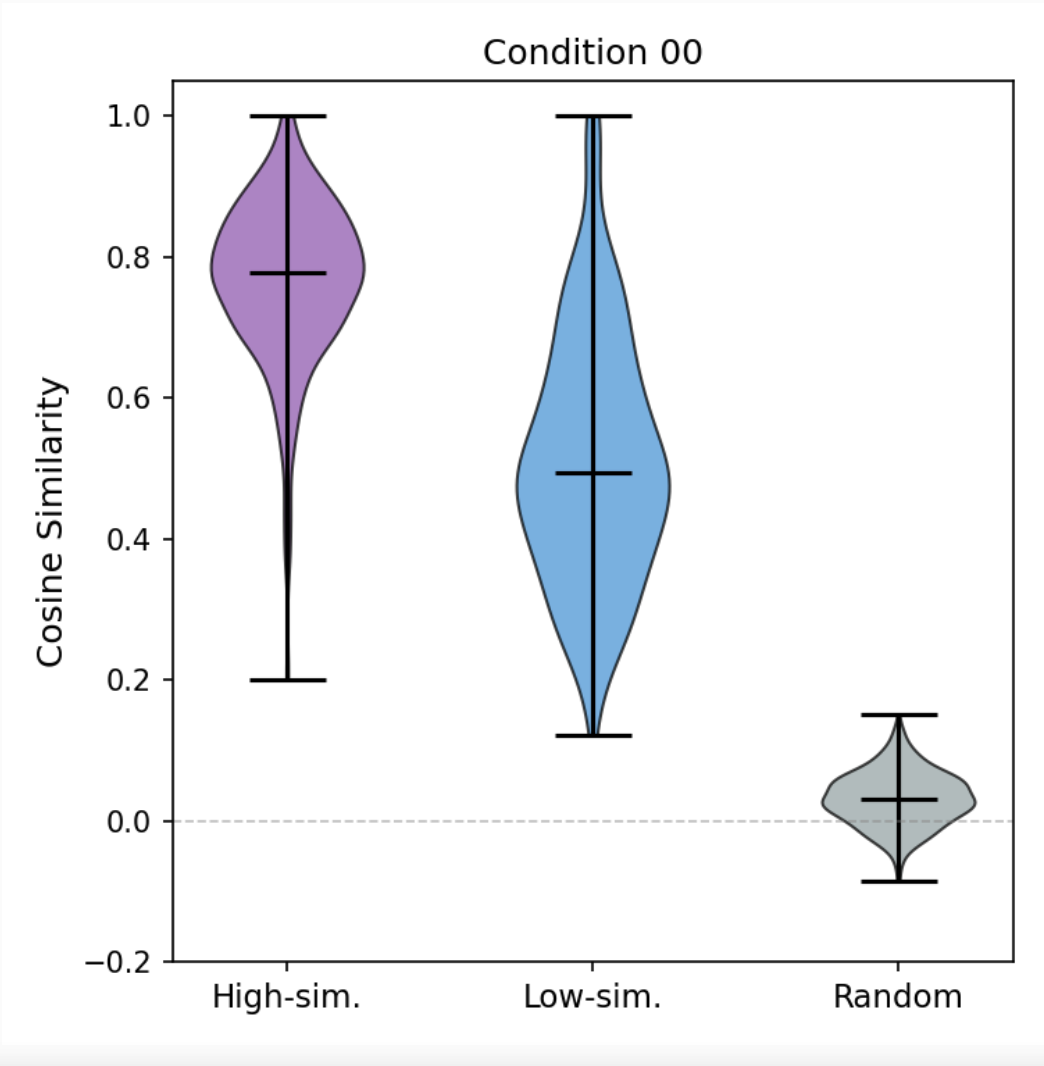
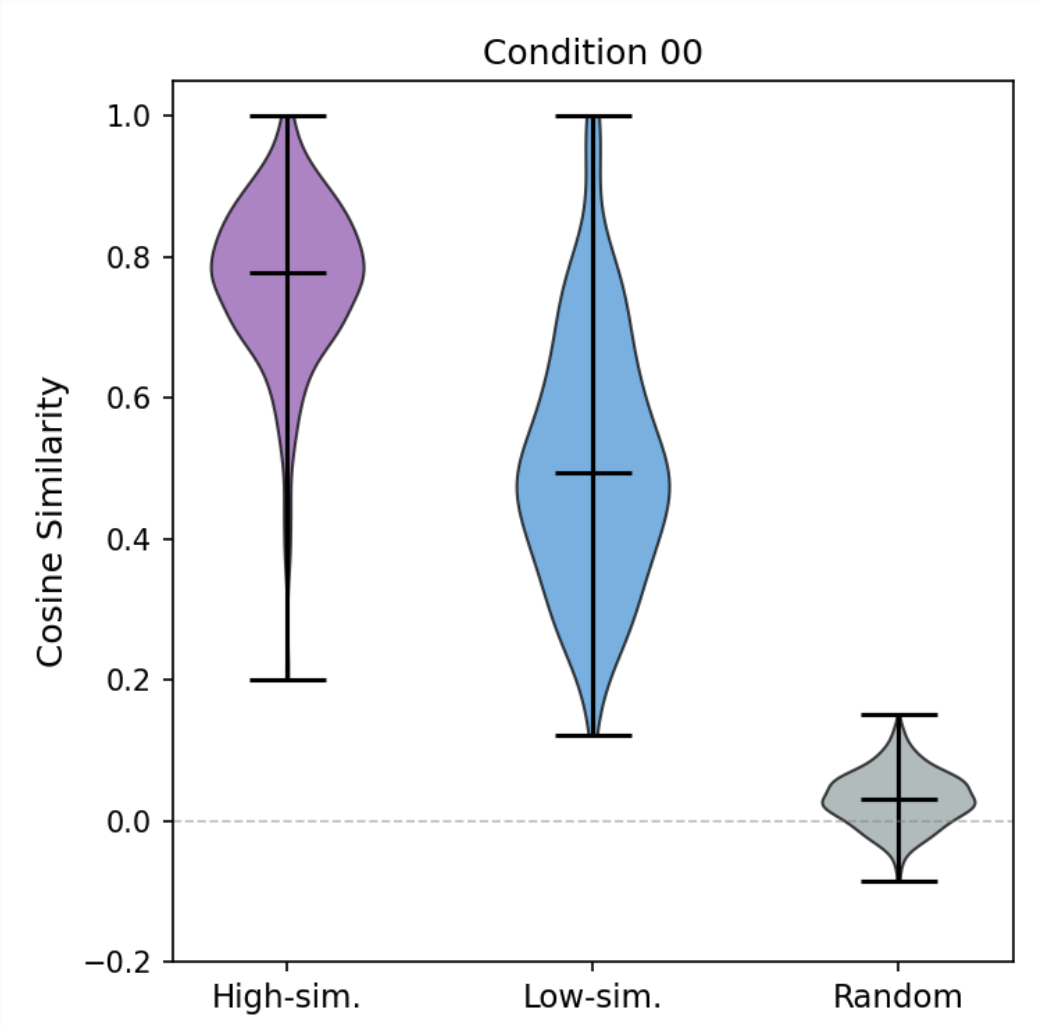
slide content update

Changed region(s): [[0.0925, 0.0312, 0.9865, 0.9981], [0.0308, 0.3431, 0.0617, 0.655]]

diff --git a/index.html b/index.html
@@ -385,7 +385,7 @@
             2026 / 06 / 10
           </div>
         </div>
-        <div class="footer"><span>Title</span><span>01 / 20</span></div>
+        <div class="footer"><span>Title</span><span>01 / 23</span></div>
       </section>
 
       <!-- Slide 2: The Original Paper -->
@@ -410,7 +410,7 @@
           </ul>
         </div>
         <div class="footer">
-          <span>Kallini et al., 2025</span><span>02 / 20</span>
+          <span>Kallini et al., 2025</span><span>02 / 23</span>
         </div>
       </section>
 
@@ -443,7 +443,7 @@
             alignment?
           </p>
         </div>
-        <div class="footer"><span>JA–ZH Testbed</span><span>03 / 20</span></div>
+        <div class="footer"><span>JA–ZH Testbed</span><span>03 / 23</span></div>
       </section>
 
       <!-- Slide 4: Why Kanji Sharing? -->
@@ -471,7 +471,7 @@
           </ul>
         </div>
         <div class="footer">
-          <span>Bilingual LM Research</span><span>04 / 20</span>
+          <span>Bilingual LM Research</span><span>04 / 23</span>
         </div>
       </section>
 
@@ -519,7 +519,7 @@
           </table>
         </div>
         <div class="footer">
-          <span>Overlap Breakdown</span><span>05 / 20</span>
+          <span>Overlap Breakdown</span><span>05 / 23</span>
         </div>
       </section>
 
@@ -538,7 +538,7 @@
           </ul>
         </div>
         <div class="footer">
-          <span>Vocabulary Density</span><span>06 / 20</span>
+          <span>Vocabulary Density</span><span>06 / 23</span>
         </div>
       </section>
 
@@ -580,7 +580,7 @@
           </table>
         </div>
         <div class="footer">
-          <span>Semantic Ambiguity</span><span>07 / 20</span>
+          <span>Semantic Ambiguity</span><span>07 / 23</span>
         </div>
       </section>
 
@@ -607,7 +607,7 @@
           </div>
         </div>
         <div class="footer">
-          <span>Research Focus</span><span>08 / 20</span>
+          <span>Research Focus</span><span>08 / 23</span>
         </div>
       </section>
 
@@ -632,7 +632,7 @@
           </ul>
         </div>
         <div class="footer">
-          <span>Transfer Hypothesis</span><span>09 / 20</span>
+          <span>Transfer Hypothesis</span><span>09 / 23</span>
         </div>
       </section>
 
@@ -678,7 +678,7 @@
           </p>
         </div>
         <div class="footer">
-          <span>Embedding Analysis</span><span>10 / 20</span>
+          <span>Embedding Analysis</span><span>10 / 23</span>
         </div>
       </section>
 
@@ -702,7 +702,7 @@
             </li>
           </ul>
         </div>
-        <div class="footer"><span>XLM-R Sweep</span><span>11 / 20</span></div>
+        <div class="footer"><span>XLM-R Sweep</span><span>11 / 23</span></div>
       </section>
 
       <!-- Slide 12: Experimental Design -->
@@ -751,7 +751,7 @@
           </p>
         </div>
         <div class="footer">
-          <span>Four Conditions</span><span>12 / 20</span>
+          <span>Four Conditions</span><span>12 / 23</span>
         </div>
       </section>
 
@@ -775,7 +775,7 @@
             </li>
           </ul>
         </div>
-        <div class="footer"><span>CCMatrix</span><span>13 / 20</span></div>
+        <div class="footer"><span>CCMatrix</span><span>13 / 23</span></div>
       </section>
 
       <!-- Slide 14: Training Setup -->
@@ -815,7 +815,7 @@
           </div>
         </div>
         <div class="footer">
-          <span>Comparison Config</span><span>14 / 20</span>
+          <span>Comparison Config</span><span>14 / 23</span>
         </div>
       </section>
 
@@ -837,7 +837,7 @@
           </ul>
         </div>
         <div class="footer">
-          <span>Llama GPT-2 Scale</span><span>15 / 20</span>
+          <span>Llama GPT-2 Scale</span><span>15 / 23</span>
         </div>
       </section>
 
@@ -865,7 +865,7 @@
           </ul>
         </div>
         <div class="footer">
-          <span>Embedding Method</span><span>16 / 20</span>
+          <span>Embedding Method</span><span>16 / 23</span>
         </div>
       </section>
 
@@ -898,7 +898,7 @@
           </div>
         </div>
         <div class="footer">
-          <span>Token Groups</span><span>17 / 20</span>
+          <span>Token Groups</span><span>17 / 23</span>
         </div>
       </section>
 
@@ -914,7 +914,7 @@
           />
         </div>
         <div class="footer">
-          <span>Condition 00 Plot</span><span>18 / 20</span>
+          <span>Condition 00 Plot</span><span>18 / 23</span>
         </div>
       </section>
 
@@ -944,11 +944,121 @@
           </ul>
         </div>
         <div class="footer">
-          <span>Condition 00</span><span>19 / 20</span>
+          <span>Condition 00</span><span>19 / 23</span>
         </div>
       </section>
 
-      <!-- Slide 20: Status & Next Steps -->
+      <!-- Slide 20: Condition 10 Violin Plot -->
+      <section class="slide figure-slide">
+        <h2>Analysis</h2>
+        <h3>Condition 10 Violin Plot</h3>
+        <div class="slide-content">
+          <div class="grid-2" style="width: 100%; align-items: center">
+            <div>
+              <div class="accent-box" style="margin: 0 0 1.5rem">
+                <strong>Condition 10</strong>
+                <code>Ohi</code> shared, <code>Olo</code> not shared
+              </div>
+              <ul>
+                <li>
+                  Sharing semantically similar kanji
+                </li>
+              </ul>
+            </div>
+            <img
+              class="slide-figure"
+              src="EA_cond10.png"
+              alt="Condition 10 embedding similarity violin plot"
+            />
+          </div>
+        </div>
+        <div class="footer">
+          <span>Condition 10 Plot</span><span>20 / 23</span>
+        </div>
+      </section>
+
+      <!-- Slide 21: Condition 00 vs 10 Comparison -->
+      <section class="slide figure-slide">
+        <h2>Analysis</h2>
+        <h3>Condition 00 vs 10</h3>
+        <div class="slide-content">
+          <div class="grid-2" style="width: 100%; align-items: center; gap: 2rem">
+            <div style="text-align: center">
+              <img
+                class="slide-figure"
+                src="EA_cond00.png"
+                alt="Condition 00 embedding similarity violin plot"
+              />
+            </div>
+            <div style="text-align: center">
+              <img
+                class="slide-figure"
+                src="EA_cond10.png"
+                alt="Condition 10 embedding similarity violin plot"
+              />
+            </div>
+          </div>
+        </div>
+        <div class="footer">
+          <span>00 vs 10</span><span>21 / 23</span>
+        </div>
+      </section>
+
+      <!-- Slide 22: Condition 10 Interpretation -->
+      <section class="slide">
+        <h2>Analysis</h2>
+        <h3>Condition 10 Interpretation</h3>
+        <div class="slide-content">
+          <table style="font-size: 1rem; margin: 0.5rem 0 1.25rem">
+            <thead>
+              <tr>
+                <th>Token group</th>
+                <th>Condition 00</th>
+                <th>Condition 10</th>
+                <th>Change</th>
+              </tr>
+            </thead>
+            <tbody>
+              <tr>
+                <td><strong>Ohi</strong></td>
+                <td>~0.78</td>
+                <td>~0.75</td>
+                <td>≈ no change</td>
+              </tr>
+              <tr>
+                <td><strong>Olo</strong></td>
+                <td>~0.49</td>
+                <td>~0.05</td>
+                <td>↓ dramatically</td>
+              </tr>
+              <tr>
+                <td><strong>Random</strong></td>
+                <td>~0.03</td>
+                <td>~0.05</td>
+                <td>≈ no change</td>
+              </tr>
+            </tbody>
+          </table>
+          <ul>
+            <li>
+              <strong>Olo</strong> collapses toward the random baseline because
+              it is not shared in Condition 10
+            </li>
+            <li>
+              <strong>Ohi</strong> barely changes, suggesting shared context
+              already aligns semantically similar tokens
+            </li>
+            <li>
+              Token ID sharing matters most for semantically dissimilar tokens
+            </li>
+          </ul>
+        </div>
+        <div class="footer">
+          <span>Condition 10</span><span>22 / 23</span>
+        </div>
+      </section>
+
+      <!-- Slide 23: Status & Next Steps -->
       <section class="slide">
         <h2>Conclusion</h2>
         <h3>Status & Next Steps</h3>
@@ -968,14 +1078,14 @@
           </ul>
         </div>
         <div class="footer">
-          <span>Progress Report</span><span>20 / 20</span>
+          <span>Progress Report</span><span>23 / 23</span>
         </div>
       </section>
     </div>
 
     <div id="nav">
       <button class="nav-btn" id="prev">PREV</button>
-      <div id="counter">1 / 20</div>
+      <div id="counter">1 / 23</div>
       <button class="nav-btn" id="next">NEXT</button>
     </div>
 
@@ -1042,7 +1152,7 @@
       const exitBtn = document.getElementById("exit-edit");
       const resetBtn = document.getElementById("reset-content");
       const saveStatus = document.getElementById("save-status");
-      const STORAGE_KEY = "ppt_content_v5";
+      const STORAGE_KEY = "ppt_content_v7";
 
       const editableSelectors =
         "h1, h2, h3, p, li, td, .subtitle, .meta, .accent-box";

diff --git a/tmp.md b/tmp.md
@@ -1,34 +1,18 @@
-Slide 14: Embedding Analysis — Method
+Slide 17: Embedding Analysis — Condition 10 Results
+(violin plot: Condition 10 — figure inserted here)
 
-Goal: test whether kanji token sharing causes the model to learn more or less aligned representations for JA and ZH
-From a middle layer (l = 6) of each trained model:
-
-For each token in Ohi_500 / Olo_500 / Random_500, sample up to 100 sentences per language from the training data
-Extract contextual embeddings → mean-pool → one static embedding per token per language: e_ja, e_zh
-Compute cosine similarity between e_ja and e_zh
+Condition 10: Ohi shared, Olo not shared
+Analogous to High-similarity Overlap in the original paper
 
 
-Three token groups compared:
+Slide 18: Embedding Analysis — Condition 10 Interpretation
+Comparing Condition 00 → Condition 10:
+Token groupCondition 00Condition 10ChangeOhi~0.78~0.75≈ no changeOlo~0.49~0.05↓ dramaticallyRandom~0.03~0.05≈ no change
 
-Ohi_500 (purple) — high-similarity kanji; should be semantically aligned across JA/ZH
-Olo_500 (blue) — low-similarity kanji; should be semantically distinct
-Random_500 (gray) — non-overlapping JA-only / ZH-only single-char tokens; anisotropy baseline
+Olo drop (0.49 → 0.05) is striking and expected: Olo is not shared in condition 10, so JA and ZH learn independent embeddings for these tokens → similarity collapses toward the random baseline
+Ohi barely changes (0.78 → 0.75): sharing token IDs brings little additional alignment gain for already semantically similar kanji
 
-
-Results visualized as violin plots (replicating original paper Figure 2)
-
-
-Slide 15: Embedding Analysis — Condition 00 Results
-(violin plot: Condition 00 — figure inserted here)
-
-Condition 00: no kanji tokens shared (Ohi and Olo both disjoint)
-X-axis: token group; Y-axis: cosine similarity between e_ja and e_zh
+Reason: parallel corpus context alone is sufficient to align semantically similar tokens — shared ID provides minimal extra signal
 
 
-Slide 16: Embedding Analysis — Condition 00 Interpretation
-
-Even without any kanji sharing, High-sim tokens show higher embedding similarity (median ~0.78) than Low-sim tokens (median ~0.49)
-
-Suggests some degree of semantic alignment emerges from shared context structure alone
-
-Low-sim tokens show a broad distribution (range ~0.12–1.0), reflecting genuine semantic divergence across languages
+Key insight: token ID sharing matters most for semantically dissimilar tokens — it is the ID sharing that forces their embeddings together (or apart), not semantic content
